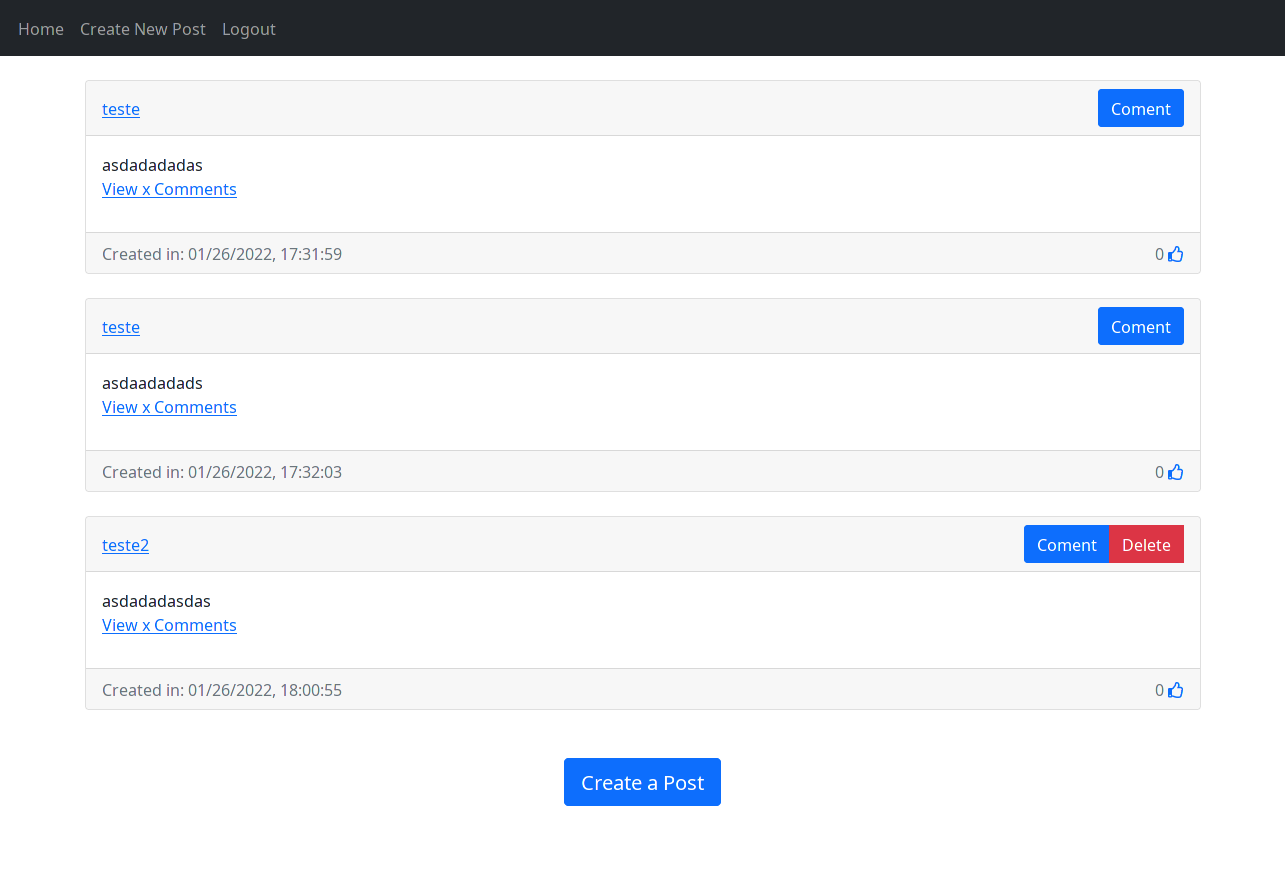
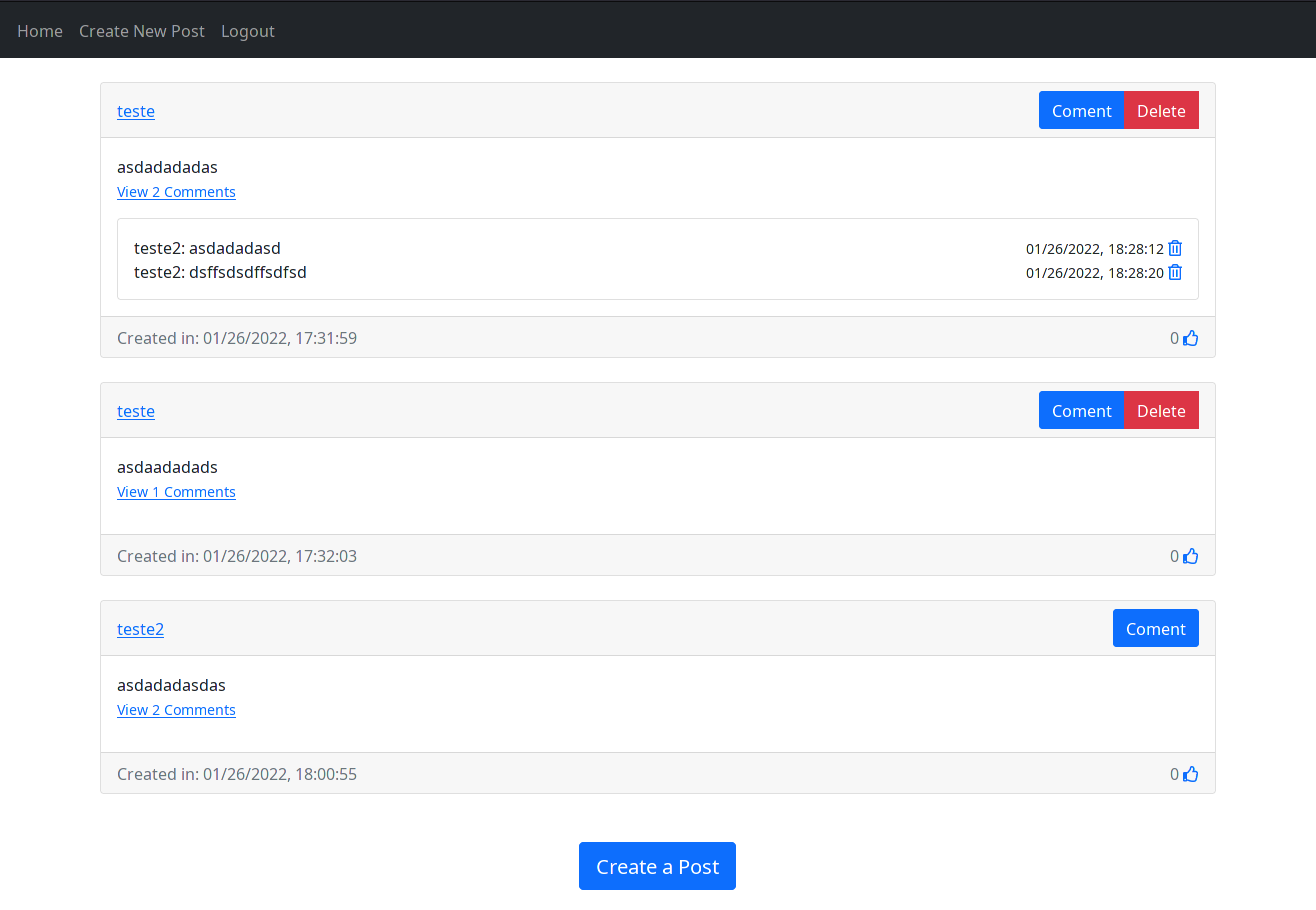
More work on Comments section

diff --git a/website/views.py b/website/views.py
@@ -76,3 +76,21 @@ def like_post(post_id):
         db.session.commit()
 
     return redirect(url_for('views.home'))
+
+# Create Comment Route
+@views.route("/create-comment/<post_id>", methods=['GET', 'POST'])
+@login_required
+def create_comment(post_id):
+
+    if request.method == 'POST':
+        text = request.form.get('text')
+        if not text:
+            flash("Your comment should not be empty!", category='error')
+        else:
+            comment = Comment(text=text, author=current_user.id, post_id=post_id)
+            db.session.add(comment)
+            db.session.commit()
+            return redirect(url_for('views.home'))
+            flash("Comment created!")
+
+    return render_template('create-comment.html.j2', user = current_user)
